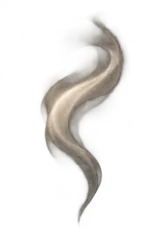
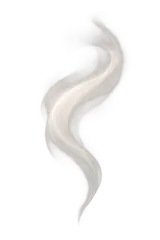
Kitchen life: remove the pasted flames and lamp discs, soften the beam, whiten the steam
The previous round (9634aa9) turned everything up and it looked wrong: painted flames drawn over the pots made them look on fire, the lamp glow sprites read as discs, and the stronger sun beam showed a hard-edged wedge over the cabinets.

- Painted burner flames and lamp glow sprites removed (the warm CSS burner glow and the soft CSS lamp gradient are back); the beam is back to its gentle strength.
- The painted steam wisps are recoloured toward white (alpha untouched, make-fx-assets.py whiten()), so they read as soft steam instead of grey smoke over the warm painting.
- Kept: painted star glints on the copper, petals and leaves past the window, short steam from both pots of the Grand kitchen.

RULE CHANGE: kitchen-ambient-qa C5/C5c no longer name the glow and flame sprites (the layer does not use them); the comment records that they were tried and removed.

Checked by screenshot at 1766x901; motion feel is for the developer to judge. No economy, save-field or ad change.

Changed region(s): [[0.25, 0.0583, 0.8125, 0.9333]]

diff --git a/src/components/kc/kitchenAmbient.css b/src/components/kc/kitchenAmbient.css
@@ -28,8 +28,8 @@
   position: absolute;
   background: linear-gradient(
     105deg,
-    rgba(255, 238, 176, 0.5) 0%,
-    rgba(255, 238, 176, 0.24) 45%,
+    rgba(255, 238, 176, 0.3) 0%,
+    rgba(255, 238, 176, 0.1) 45%,
     rgba(255, 238, 176, 0) 82%
   );
   clip-path: polygon(0 0, 38% 0, 100% 100%, 56% 100%);
@@ -39,11 +39,11 @@
 }
 @keyframes ka-beam {
   from {
-    opacity: 0.55;
+    opacity: 0.4;
     transform: skewX(0deg);
   }
   to {
-    opacity: 1;
+    opacity: 0.8;
     transform: skewX(-3deg);
   }
 }
@@ -75,16 +75,22 @@
   }
 }
 
-/* lamps that breathe: the painted amber glow */
+/* lamps that breathe */
 .ka-lamp {
   position: absolute;
   aspect-ratio: 1;
-  opacity: 0.5;
+  border-radius: 50%;
+  background: radial-gradient(
+    closest-side,
+    rgba(255, 207, 112, 0.6),
+    rgba(255, 172, 62, 0.22) 45%,
+    rgba(255, 160, 50, 0) 72%
+  );
+  opacity: 0.6;
   transform: translate(-50%, -50%);
   animation: ka-lamp var(--ld, 3.6s) ease-in-out infinite alternate;
   animation-delay: var(--d, 0s);
 }
-.ka-lamp img,
 .ka-glint img {
   display: block;
   width: 100%;
@@ -93,12 +99,12 @@
 }
 @keyframes ka-lamp {
   from {
-    opacity: 0.35;
-    transform: translate(-50%, -50%) scale(0.9);
+    opacity: 0.5;
+    transform: translate(-50%, -50%) scale(0.94);
   }
   to {
-    opacity: 0.8;
-    transform: translate(-50%, -50%) scale(1.1);
+    opacity: 0.95;
+    transform: translate(-50%, -50%) scale(1.08);
   }
 }
 
@@ -250,30 +256,6 @@
   94% {
     opacity: 0;
     transform: translate(-50%, -50%) scale(0) rotate(70deg);
-  }
-}
-
-/* the burner's painted flame: four frames stacked, each visible for a quarter of the loop (opacity only) */
-.ka-flame {
-  position: absolute;
-  aspect-ratio: 200 / 89;
-  transform: translate(-50%, -100%);
-}
-.ka-flame img {
-  position: absolute;
-  inset: 0;
-  width: 100%;
-  height: 100%;
-  opacity: 0;
-  animation: ka-flame 0.72s steps(1, end) infinite;
-  animation-delay: calc(var(--fi, 0) * 0.18s);
-}
-@keyframes ka-flame {
-  0% {
-    opacity: 0.8;
-  }
-  25% {
-    opacity: 0;
   }
 }
 

diff --git a/src/components/kc/KitchenAmbient.tsx b/src/components/kc/KitchenAmbient.tsx
@@ -73,14 +73,12 @@ export function KitchenAmbient({ skin, layout }: { skin: KitchenSkinId; layout: 
             {
               left: pct(l.x),
               top: pct(l.y),
-              width: pct(l.r * 0.95),
+              width: pct(l.r),
               "--ld": `${(2.6 + spread(i, 7) * 2).toFixed(1)}s`,
               "--d": `${(spread(i, 8) * 2.5).toFixed(1)}s`,
             } as CSSProperties
           }
-        >
-          <img src={fx("glow-1")} alt="" draggable={false} decoding="async" />
-        </span>
+        ></span>
       ))}
 
       {/* petals and leaves drifting past the window (the garden outside) */}
@@ -108,32 +106,6 @@ export function KitchenAmbient({ skin, layout }: { skin: KitchenSkinId; layout: 
         />
       ))}
 
-      {/* the burner's painted flame (four frames of a loop, shown one after another by opacity) peeking out around the base of each pot */}
-      {s.pots.map((p, pi) => (
-        <span
-          key={`flame-${pi}`}
-          className="ka-flame"
-          data-testid="ka-flame"
-          style={
-            {
-              left: pct(p.x),
-              top: pct(p.y + (wide ? 4.6 : 6.2)),
-              width: pct(steamW * 1.45),
-            } as CSSProperties
-          }
-        >
-          {[1, 2, 4, 5].map((f, fi) => (
-            <img
-              key={f}
-              src={fx(`flame-burner-${f}`)}
-              alt=""
-              draggable={false}
-              decoding="async"
-              style={{ "--fi": fi } as CSSProperties}
-            />
-          ))}
-        </span>
-      ))}
       {/* the burner's warm light under each pot, and a low haze at its rim */}
       {s.pots.map((p, pi) => (
         <span

diff --git a/scripts/make-fx-assets.py b/scripts/make-fx-assets.py
@@ -56,8 +56,18 @@ total = 0
 # FX-1 steam and mist: keep the whole cell (the wisp's foot sits near the bottom-centre), scaled to 160x240
 sheet = load(1)
 names = [f"steam-{i}" for i in range(1, 7)] + ["mist-1", "mist-2"]
+def whiten(im, k):
+    """Push the colour toward white (alpha untouched): the painted steam is grey-cream, which reads as dirty smoke over a warm painting."""
+    a = np.array(im).astype(np.float32)
+    a[:, :, :3] = a[:, :, :3] * (1 - k) + 255 * k
+    return Image.fromarray(a.astype(np.uint8), "RGBA")
+
+
 for (j, i, c), name in zip(cells(sheet, 4, 2), names):
-    total += save(c.resize((160, 240), Image.LANCZOS), KFX / f"{name}.webp", 78)
+    c = c.resize((160, 240), Image.LANCZOS)
+    if name.startswith("steam"):
+        c = whiten(c, 0.6)
+    total += save(c, KFX / f"{name}.webp", 78)
 
 # FX-2 flames: split the sheet into row bands by empty alpha rows, one shared crop per band
 sheet = load(2)
